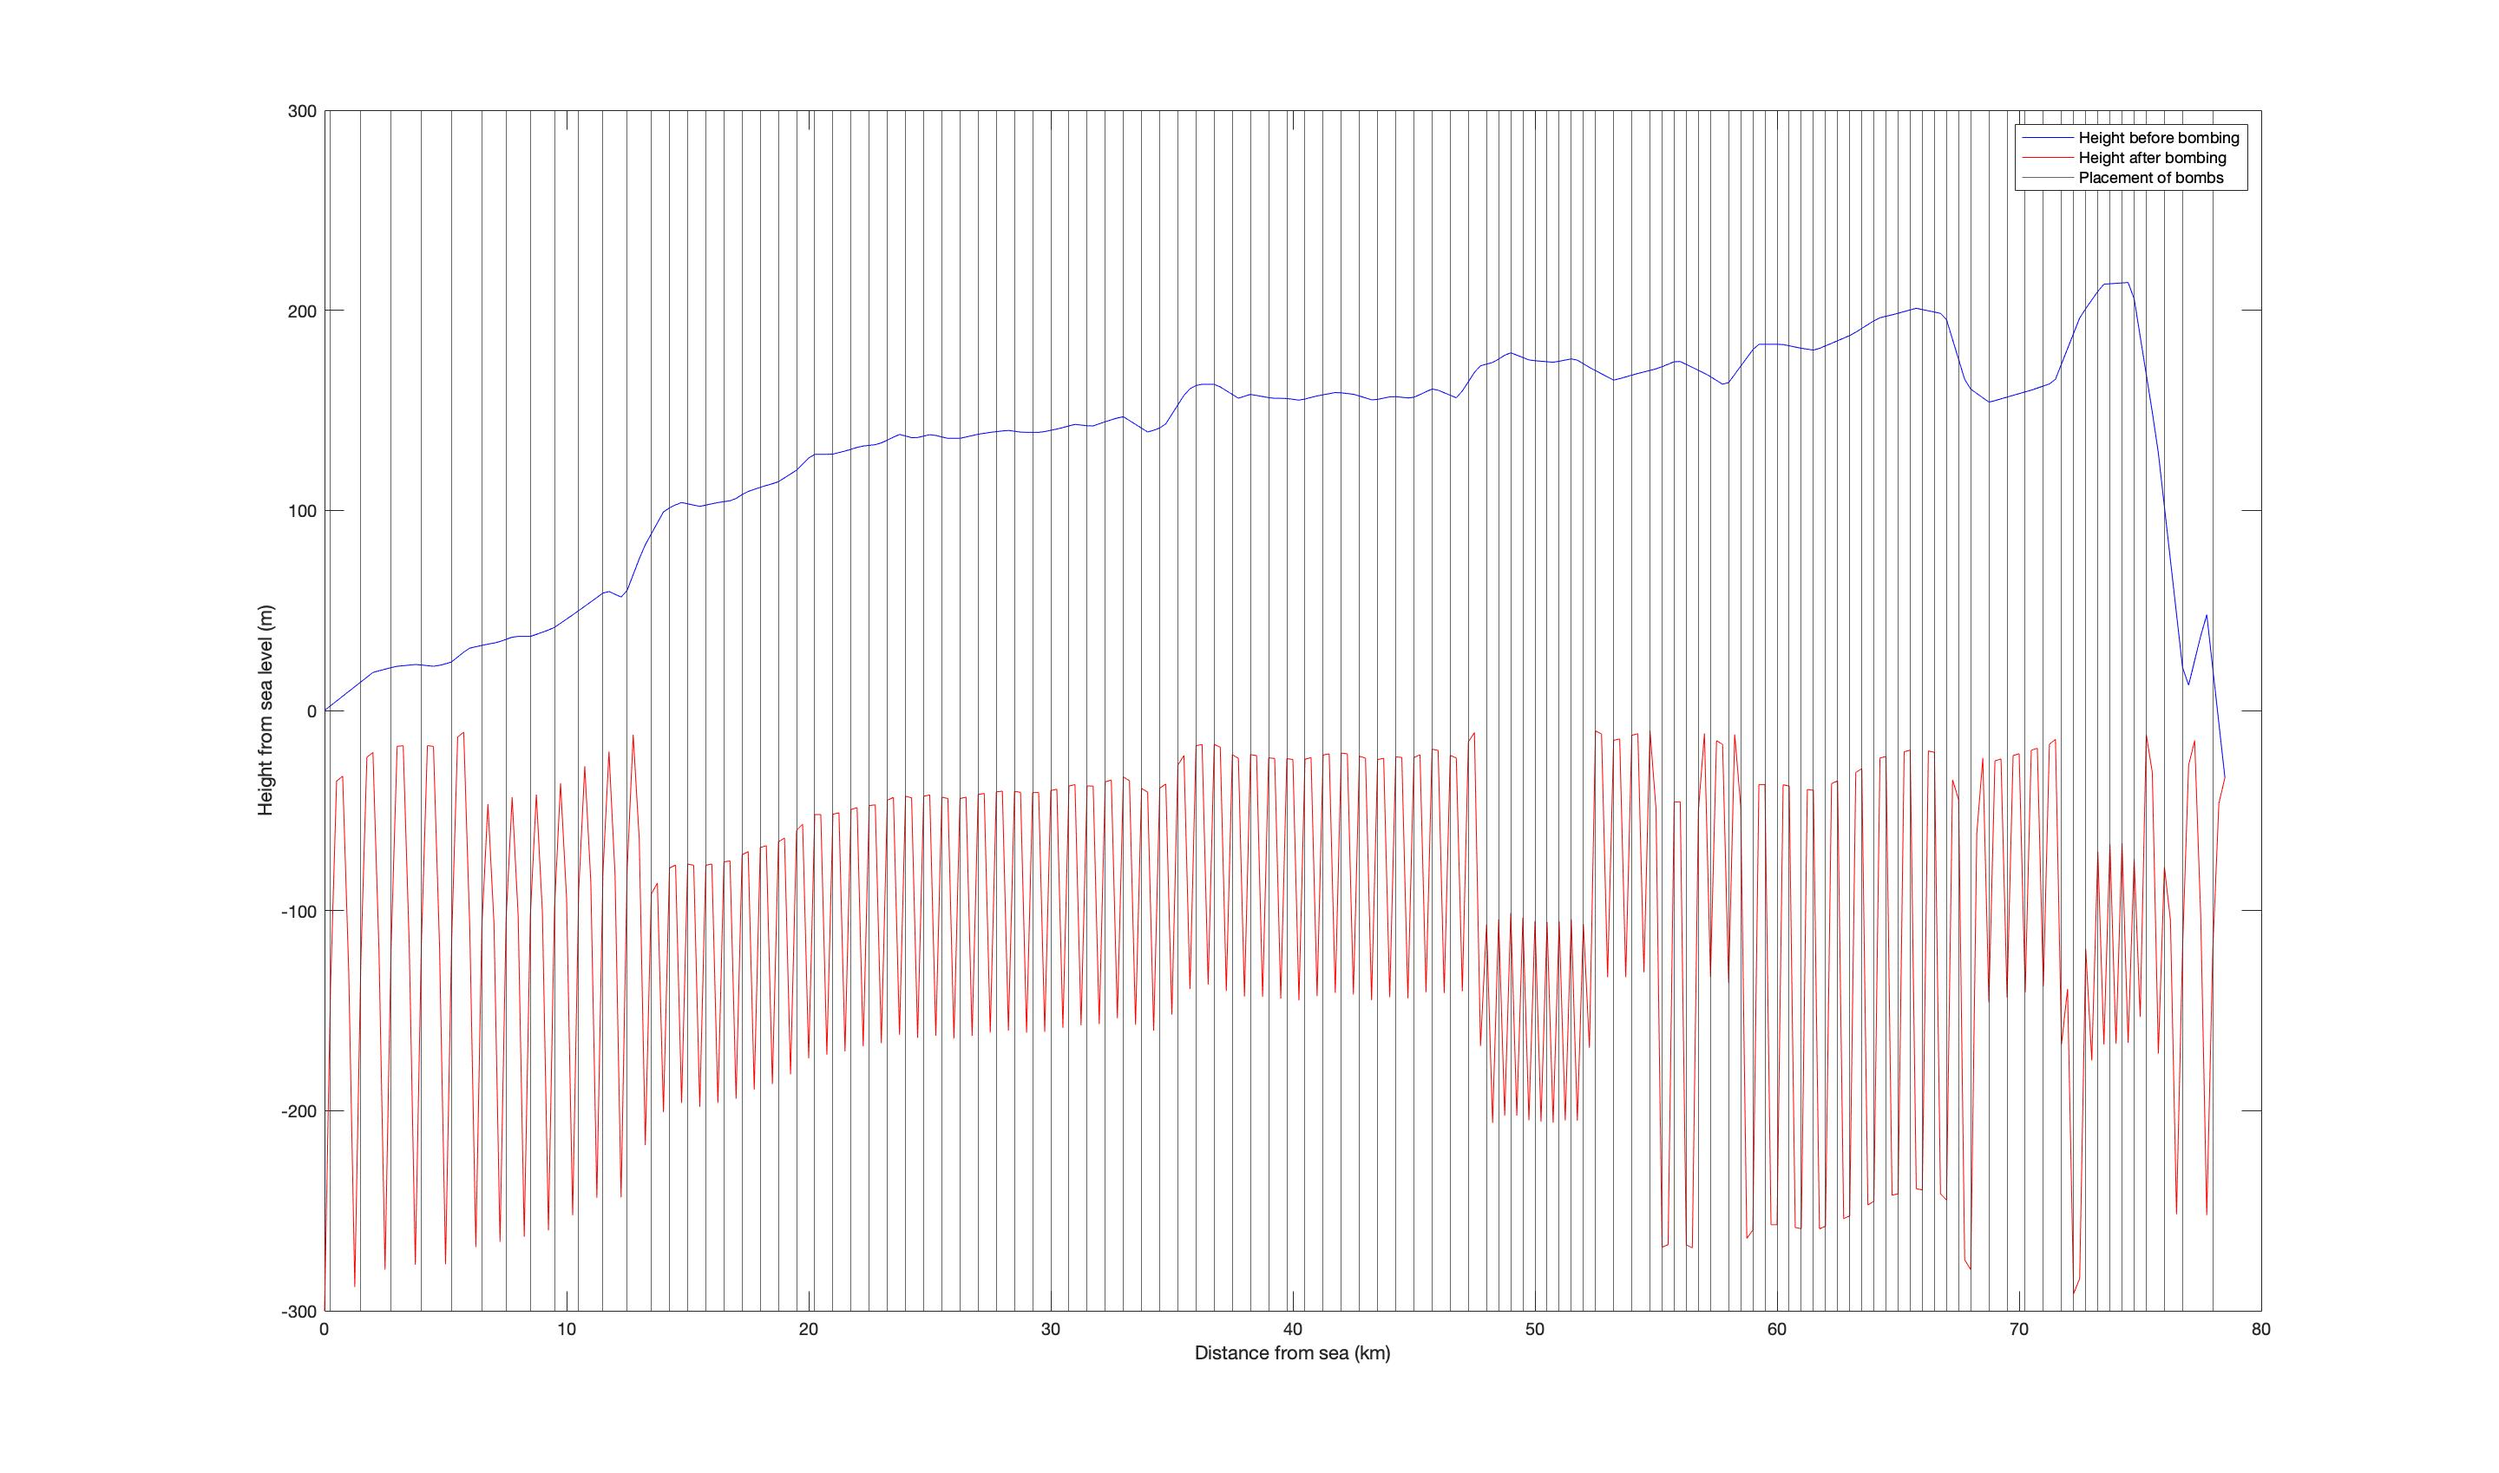
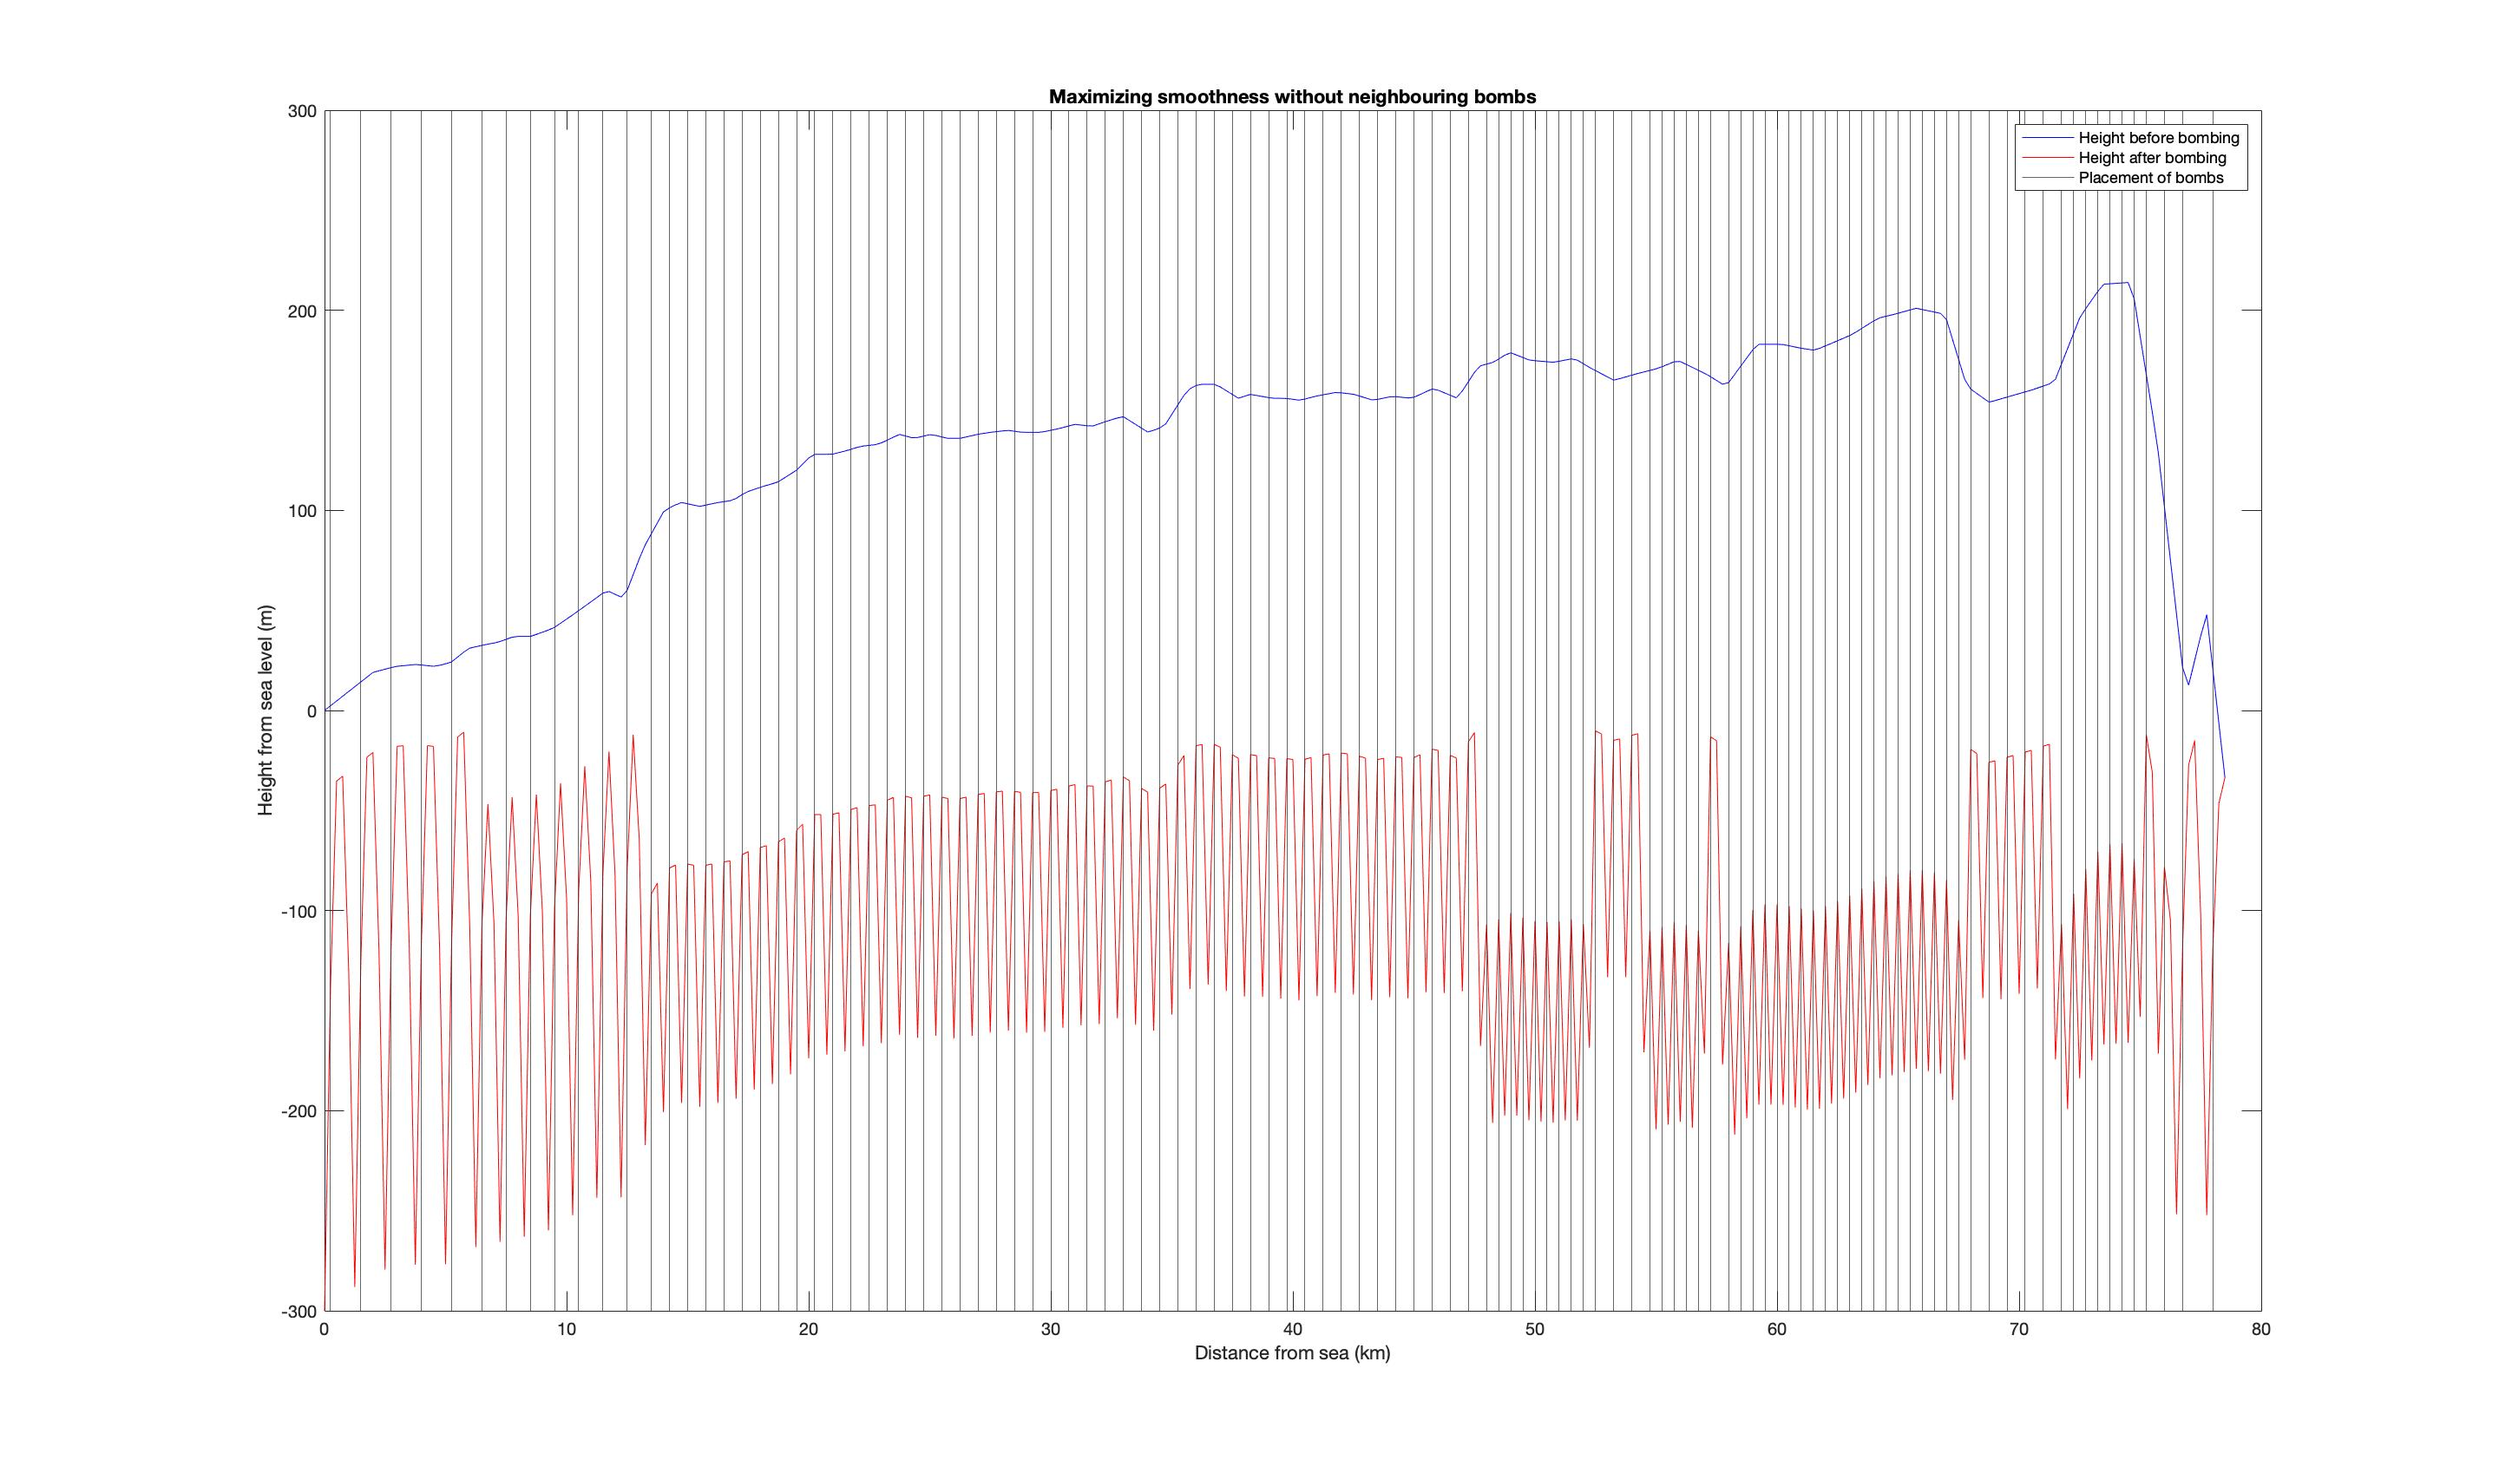
New plot

Changed region(s): [[0.6562, 0.4994, 0.8438, 0.8115], [0.4375, 0.0624, 0.625, 0.0936]]

diff --git a/main.m b/main.m
@@ -124,8 +124,8 @@ newInterHeightNonLinearNoNeighbors = interHeight-dirtRemovedNonLinearNoNeighbors
 %%
 
 figure(5)
-title('Maximizing smoothness without neighbouring bombs');
 plot(d,interHeight,'b');
+title('Maximizing smoothness without neighbouring bombs');
 hold on
 plot(d,newInterHeightNonLinearNoNeighbors,'r');
 hold all
@@ -185,7 +185,9 @@ hold on
 plot(d,newInterHeightNonLinear);
 hold on
 plot(d,newInterHeightNonLinearNoNeighbors);
-legend("Minimizing bombs","Smoothing","No neighbors")
+legend("Minimizing bombs","Smoothing","Smoothing without neighbors")
+xlabel('Distance from sea (km)');
+ylabel('Height from sea level (m)');
 
 
 %% Number of bombs
